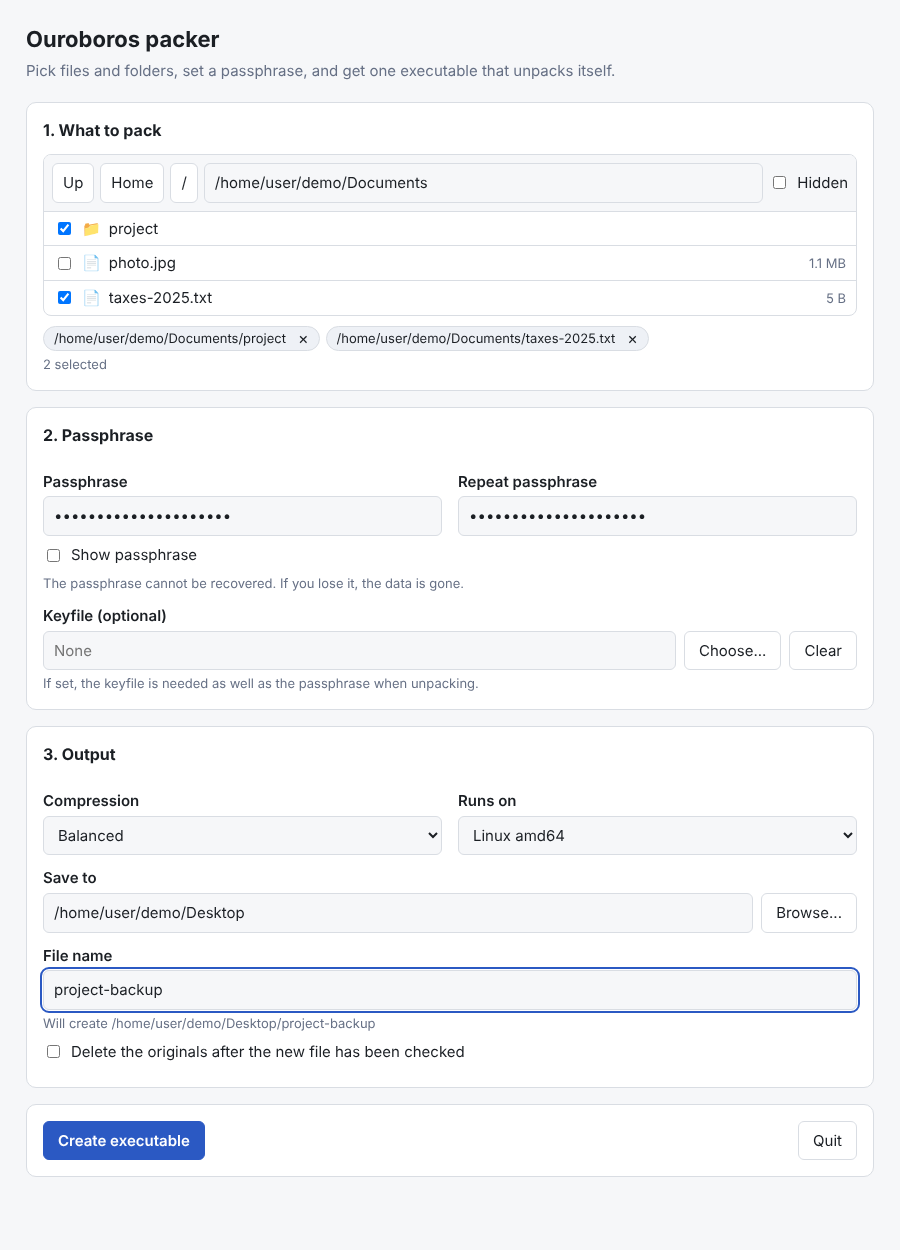
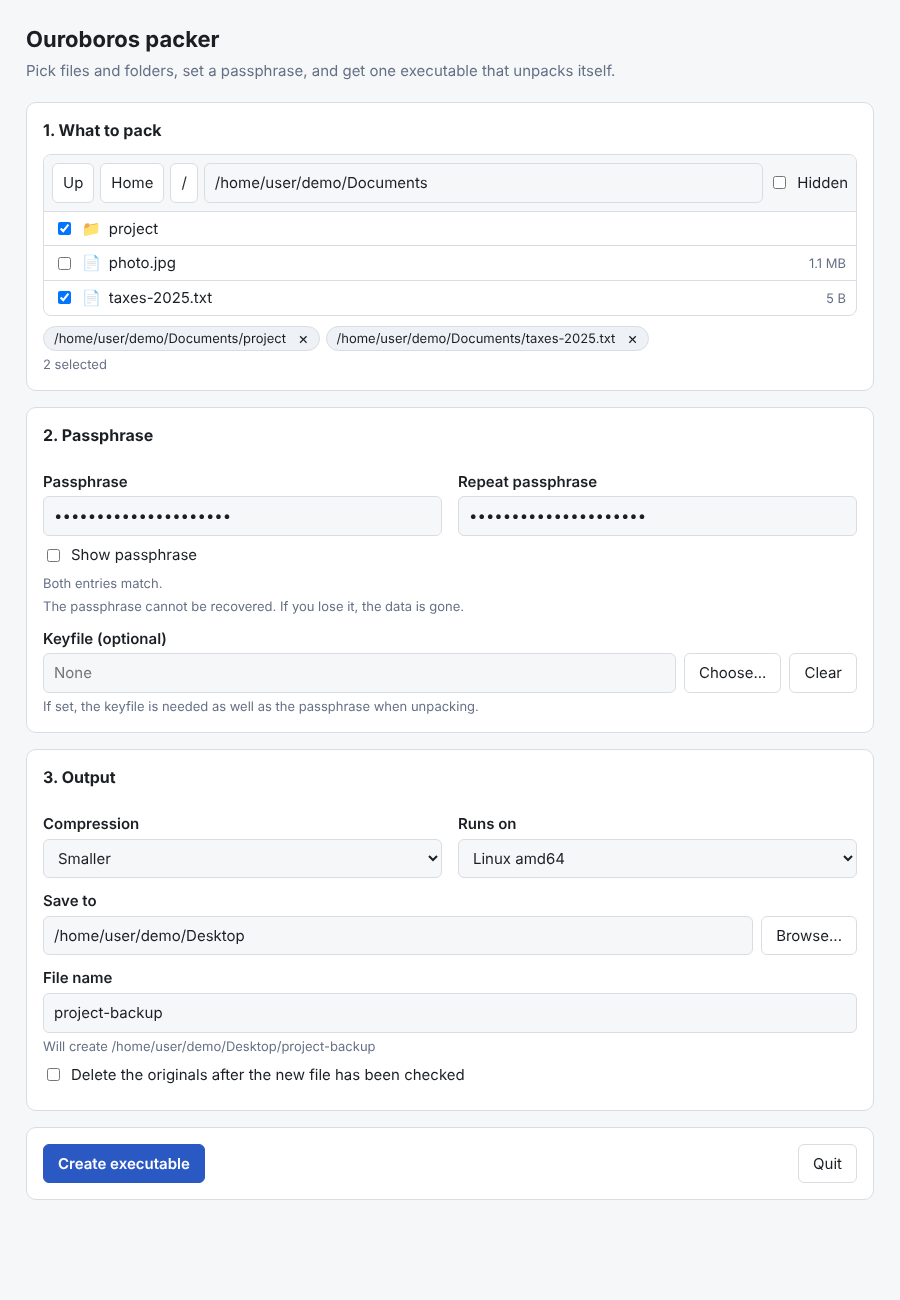
Refresh screenshots and documentation
- retake all screenshots from the current build and add the passphrase
  warnings and the finished packer view
- show the SHA-256 on its own line after packing
- restore the Limits section that an earlier edit removed
- document verifying downloads, the unsigned state of the programs, and the
  current way past Gatekeeper and SmartScreen
- note the one time link, reproducible builds and the unpacker manifest

diff --git a/internal/app/pack.go b/internal/app/pack.go
@@ -161,7 +161,7 @@ func Pack(req PackRequest, progress func(archive.Progress)) (string, []string, e
 		warnings = append(warnings, deleteArchived(res)...)
 	}
 	sum, size := fingerprint(out)
-	return fmt.Sprintf("Created %s (%s). %d files and %d folders packed for %s. SHA-256: %s",
+	return fmt.Sprintf("Created %s (%s). %d files and %d folders packed for %s.\nSHA-256: %s",
 		out, humanSize(size), res.Files, res.Dirs, target, sum), warnings, nil
 }
 

diff --git a/README.md b/README.md
@@ -11,8 +11,10 @@ Both the packer and the generated executables work on Windows, Linux and macOS
 
 1. Run the packer. A page opens in your browser (served from the program
    itself on your own computer) where you browse for files and
-   folders, set a passphrase and pick the output location.
-2. The packer writes a single executable. Send it to anyone.
+   folders, set a passphrase and pick the output location. If no browser opens,
+   copy the address the program prints. It works once.
+2. The packer writes a single executable and shows its SHA-256. Send both to
+   the recipient, the hash over a different channel than the file.
 3. Running that executable opens a similar page. Enter the passphrase, choose a
    destination, and the files come out with their folder structure intact.
 
@@ -21,12 +23,23 @@ supported platforms, for example a Windows `.exe` made on Linux.
 
 ## Screenshots
 
-Packing a folder and a file into `project-backup`:
+Packing a folder and a file into `project-backup`. The passphrase section
+checks that both entries match:
 
 ![The packer](docs/screenshots/packer.png)
 
-Running `project-backup` on another machine. The contents can be previewed
-once the passphrase is entered:
+The passphrase fields warn about Caps Lock and mismatched entries while you
+type:
+
+![Passphrase warnings](docs/screenshots/passphrase-warnings.png)
+
+When the file has been written and read back, the packer shows where it is and
+its SHA-256, which is worth sharing with the recipient separately:
+
+![The packer after creating the file](docs/screenshots/packer-done.png)
+
+Running `project-backup` on another machine. The contents can be previewed once
+the passphrase is entered:
 
 ![The unpacker with a content preview](docs/screenshots/unpacker.png)
 
@@ -43,13 +56,15 @@ When packing:
 - optional keyfile that is needed in addition to the passphrase
 - passphrase checks: a live match indicator for the repeat field, a warning for
   a leading or trailing space, and a Caps Lock warning (also when unpacking)
-- delete the originals once the new file has been read back and verified
+- delete the originals once the new file has been read back and verified (only
+  what was stored, and never if anything was skipped)
 
 When extracting:
 
 - preview the contents before extracting
 - what to do if a file already exists: keep both, skip, or overwrite
 - restore dates and permissions (on by default)
+- the passphrase field is cleared after a successful extract
 
 Both programs also have a command line mode for scripts and remote machines:
 
@@ -57,8 +72,8 @@ Both programs also have a command line mode for scripts and remote machines:
     ./backup.run -list
     ./backup.run -dest ~/restored -conflict skip
 
-The passphrase is read from the terminal, or from `OUROBOROS_PASSPHRASE`. Run
-either program with `-h` for all flags.
+The passphrase is read from the terminal, or from `OUROBOROS_PASSPHRASE`, which
+is cleared once it has been read. Run either program with `-h` for all flags.
 
 ## Security design
 
@@ -153,15 +168,51 @@ Needs Go 1.26 or newer.
 `go build ./cmd/ouroboros` works too, but that packer will not have any
 unpackers to embed until `build.sh` has run once.
 
+Builds are reproducible: the same commit and Go version give identical bytes.
+`build.sh` also writes a checksum list for the embedded unpackers, and the
+packer refuses to use one that does not match it.
+
 ## Releases
 
 The `release` workflow builds the downloads: a `.tar.gz` for Linux, a `.zip`
 for Windows, and a `.dmg` for macOS holding a universal (Intel and Apple
 silicon) binary. Run it from the Actions tab, or push a tag like `v0.1.0` to
-publish the files on a GitHub release.
+publish the files on a GitHub release together with `SHA256SUMS` and a GitHub
+build attestation.
 
-On macOS the first launch of the unsigned binary needs a right click, Open, to
-get past Gatekeeper.
+### Verifying a download
+
+    sha256sum -c SHA256SUMS --ignore-missing
+    gh attestation verify ouroboros-linux-amd64.tar.gz --repo mattlalumiere/ouroboros
+
+### Code signing
+
+The programs are **not code signed yet**, so the operating systems will warn
+the first time you run them. Check the checksum first, then:
+
+- **Windows:** SmartScreen shows "Windows protected your PC". Choose "More
+  info", then "Run anyway".
+- **macOS:** try to open it once, then open System Settings, Privacy &
+  Security, and choose "Open Anyway" next to the message about the program.
+  (Control-click, Open no longer works on current macOS versions.) From a
+  terminal, `xattr -d com.apple.quarantine <file>` does the same.
+- **Linux:** no warning, but the file needs to be executable: `chmod +x <file>`.
+
+Files created by the packer are made on your own computer, so they cannot carry
+the project's signature, and they will show the same warnings on a recipient's
+Windows or macOS machine. Attaching the archive also changes the file, which
+would invalidate a Windows signature that was applied to the unpacker beforehand.
+Signing the finished file with your own certificate is the way around that.
+
+## Limits
+
+- Symbolic links and special files (sockets, devices) are skipped while
+  packing and listed as warnings.
+- Ownership is not stored. Permissions and modification times are.
+- The executables are around 8 MB because they contain the web interface and
+  the crypto code.
+- The archive has to stay at the very end of the file, so a signature cannot
+  be added after the fact by tools that append to the file.
 
 ## Layout
 
@@ -172,3 +223,4 @@ get past Gatekeeper.
     internal/stubs     embedded unpackers for every platform
     internal/app       shared workflows for the web and command line modes
     internal/web       local server and the browser pages
+    docs/screenshots   images used in this file
